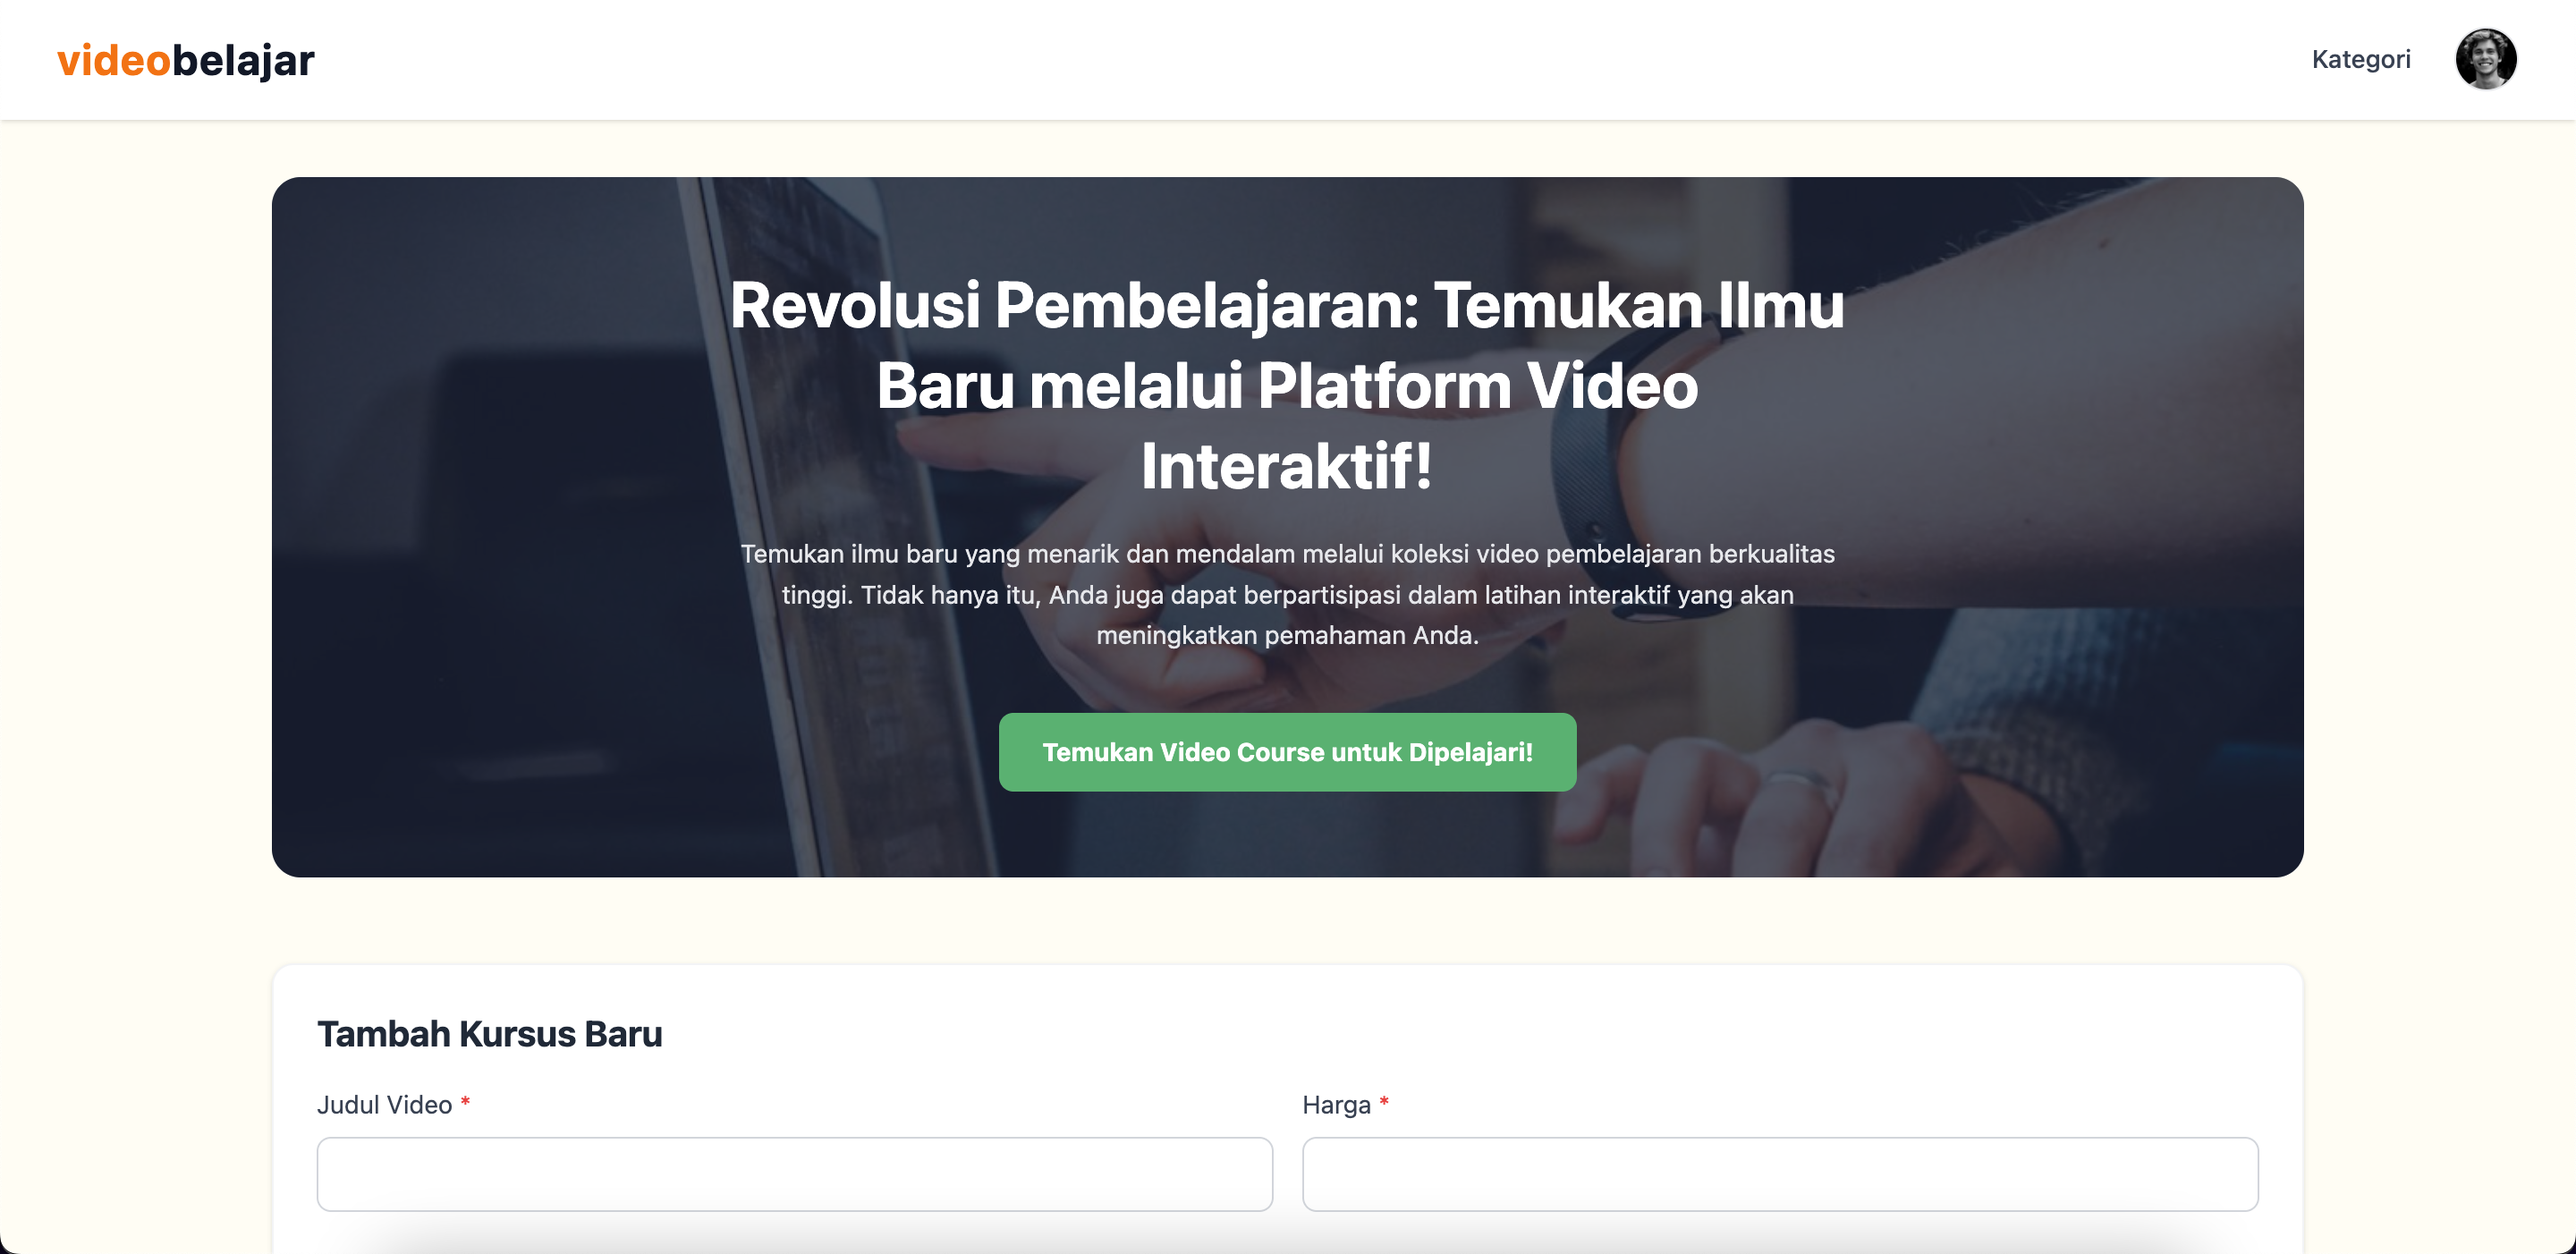
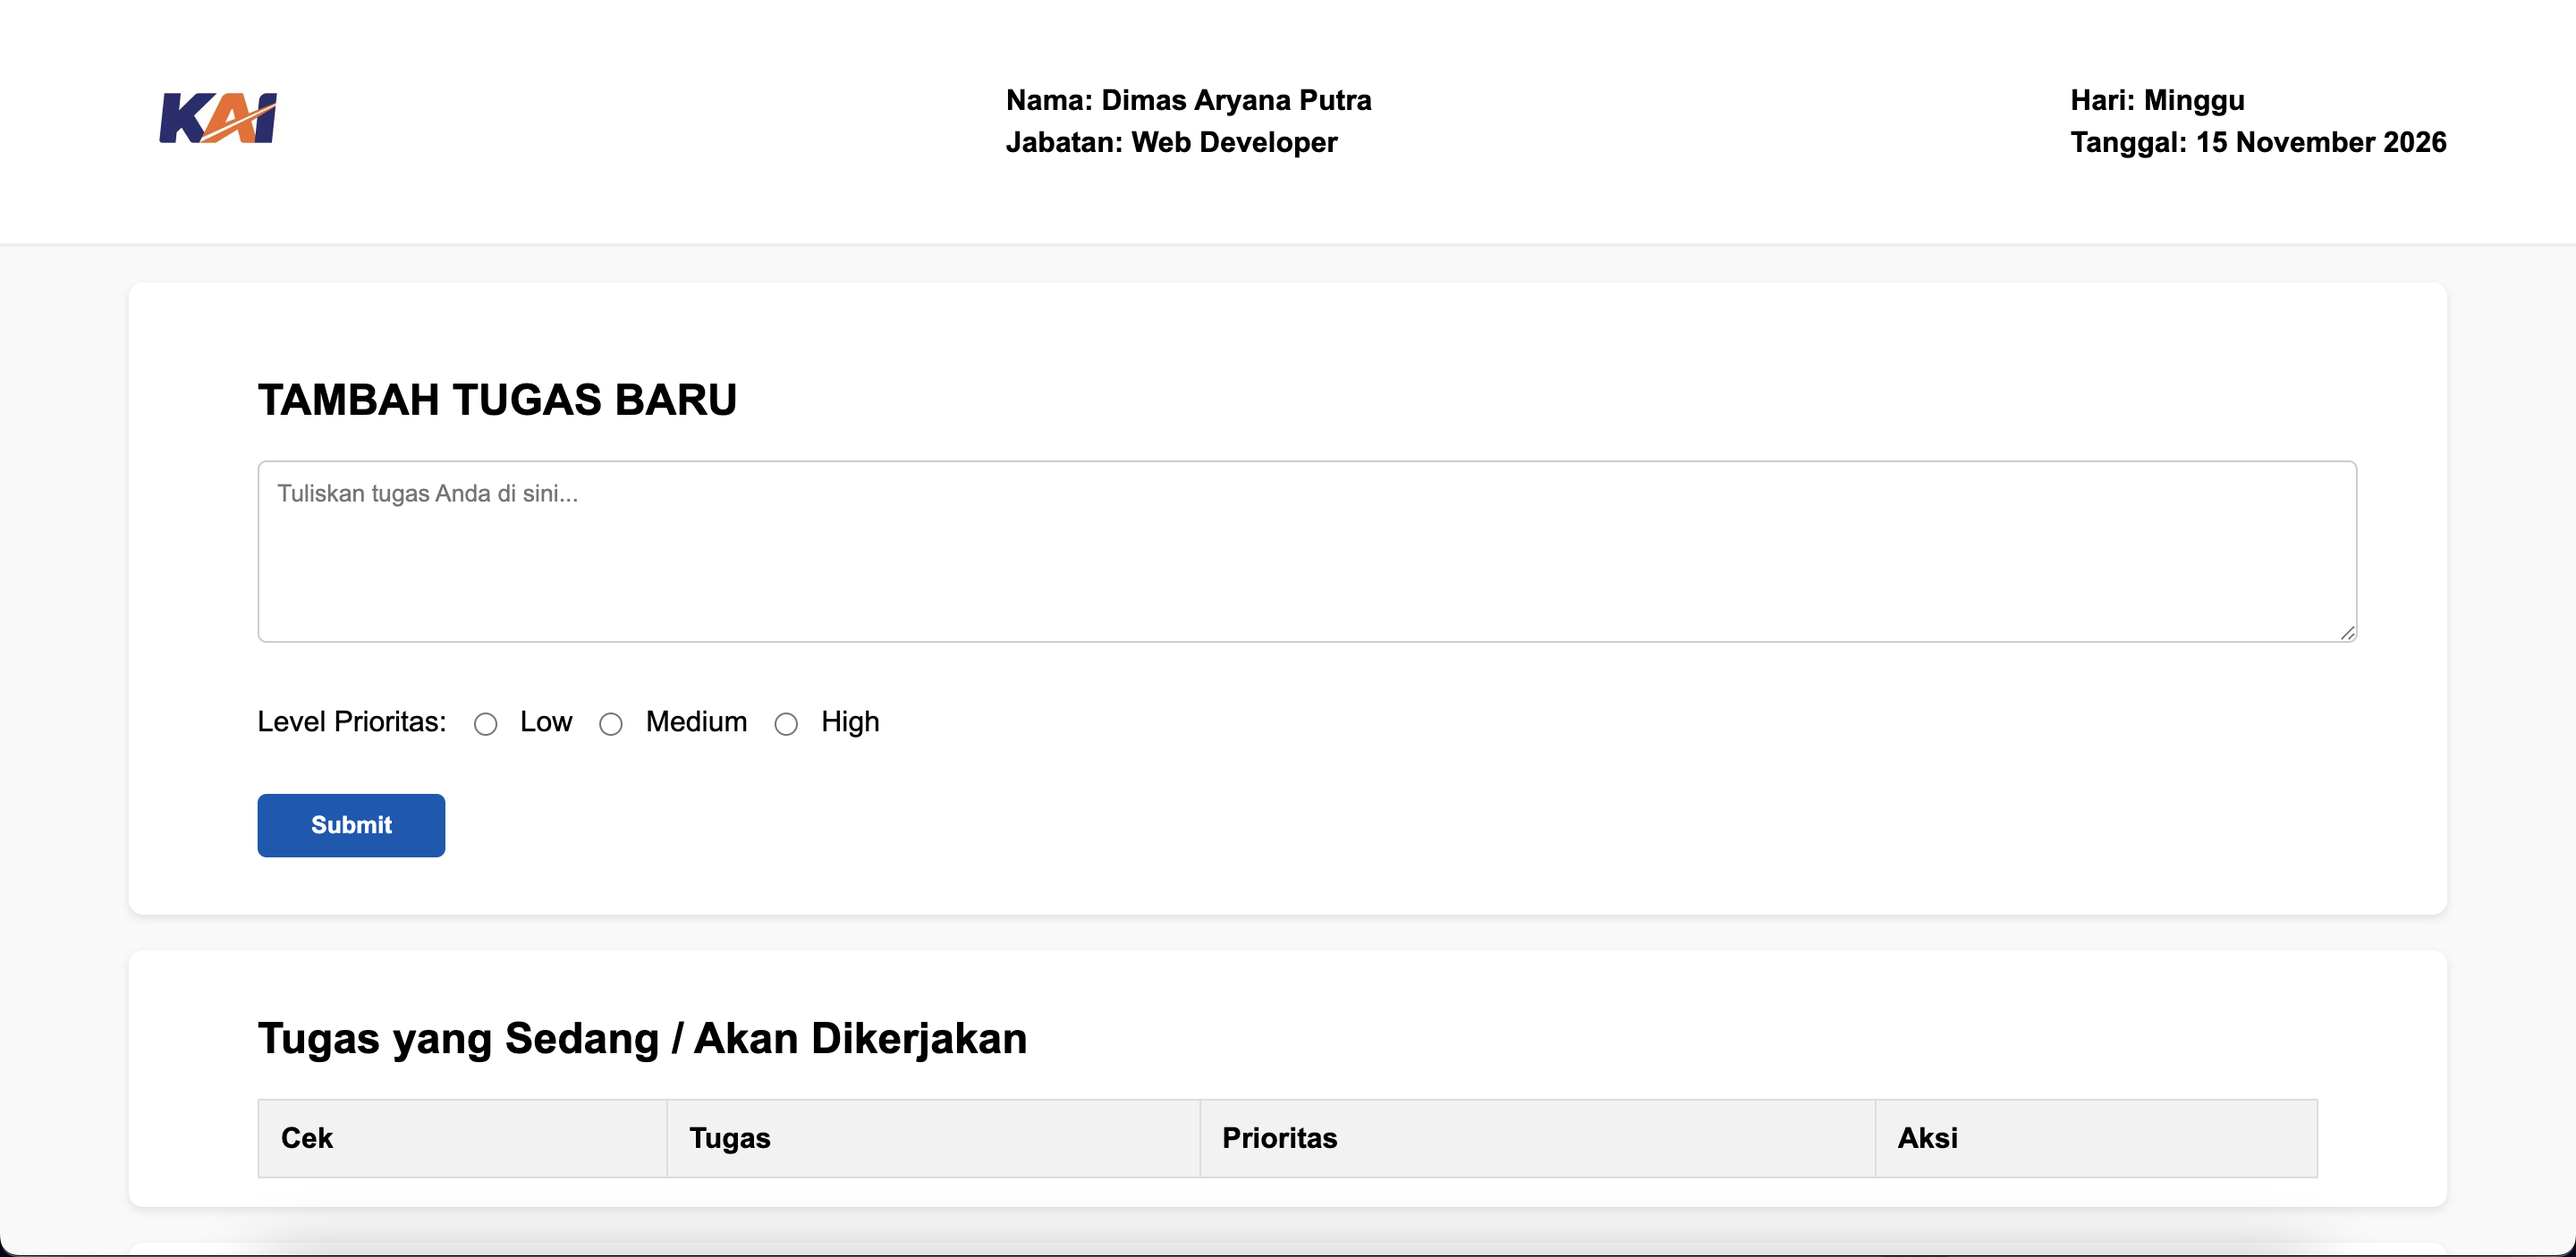
Update second

diff --git a/style.css b/style.css
@@ -23,9 +23,10 @@ body {
   justify-content: space-between;
   align-items: center;
   padding: 1rem 7%;
-  padding-top: 24px;
+  padding-top: 1rem;
   background-color: transparent;
   position: fixed;
+  border-bottom: 0.5px solid #000;
   top: 0;
   left: 0;
   right: 0;
@@ -49,13 +50,13 @@ body {
 }
 
 .navbar .logo span {
-  color: #2e7d32;
+  /* color: #2e7d32; */
   font-style: italic;
 }
 
 .navbar .nav-top a {
   font-size: 1.4rem;
-  color: #2e7d32;
+  color: #2c3e50;
   text-align: center;
   text-decoration: none;
   justify-content: center;
@@ -63,7 +64,7 @@ body {
 }
 
 .navbar .nav-top a:hover {
-  color: #2c3e50;
+  color: #2e7d32;
   transition: 0.3s;
 }
 
@@ -115,7 +116,7 @@ body {
   display: inline-block;
   margin-top: 2.5rem;
   padding: 0.8rem 1.5rem;
-  background-color: #2e7d32;
+  background-color: #6d9773;
   color: white;
   text-decoration: none;
   border-radius: 50px;
@@ -143,13 +144,13 @@ body {
 }
 
 .about-heading span {
-  color: #2e7d32;
+  color: #2c3e50;
   font-weight: 600;
   font-size: 2rem;
 }
 
 .about-heading h2 {
-  color: #2c3e50;
+  color: #6a7178;
   margin-top: 0.8rem;
   font-size: 1.1rem;
 }
@@ -189,19 +190,21 @@ body {
 
 .about-skills h2 {
   width: 100%;
-  color: #2e7d32;
+  color: #2c3e50;
   font-size: 1.5rem;
   margin-bottom: 1rem;
 }
 
 .about-skills span {
   display: flex;
+  align-items: center;
+  justify-content: center;
+  margin-right: 0.5rem;
   padding: 0.8rem 1rem;
-  background-color: #e9f7ec;
-  color: #2e7d32;
+  background-color: #6d9773;
+  color: #fff;
   border-radius: 50px;
   font-size: 1rem;
-  font-weight: 500;
   letter-spacing: 0.8px;
 }
 
@@ -209,4 +212,163 @@ body {
   display: flex;
   flex-wrap: wrap;
   gap: 1.3rem;
+}
+
+/* Project */
+
+.project {
+  padding: 2rem 7%;
+  background-color: #f9f8f6;
+  font-family: "Noto sans";
+}
+
+.project-container {
+  width: 100%;
+}
+
+.project-heading {
+  margin-bottom: 5rem;
+  justify-content: center;
+  text-align: center;
+}
+
+.project-heading span {
+  color: #2c3e50;
+  font-weight: 600;
+  font-size: 2rem;
+}
+
+.project-heading h2 {
+  color: #6a7178;
+  margin-top: 0.8rem;
+  font-size: 1.1rem;
+}
+
+.project-content {
+  display: -webkit-flex;
+  gap: 2rem;
+}
+
+.project-card {
+  flex: 1;
+  padding: 2rem;
+  background-color: #bbd8bf;
+  border-radius: 10px;
+  box-shadow: 0px 0px 10px 10px rgba(0, 0, 0, 0.1);
+}
+
+.project-card img {
+  width: 100%;
+  height: 200px;
+  object-fit: cover;
+  border-radius: 10px;
+}
+
+.project-card h3 {
+  color: #2c3e50;
+  height: 1.5rem;
+  line-height: 1.5rem;
+  font-size: 1.5rem;
+  margin: 0.8rem 0;
+}
+
+.project-card p {
+  color: #6a7178;
+  line-height: 1.4rem;
+  font-size: 1rem;
+  margin-bottom: 1rem;
+}
+
+/* Contact */
+
+.contact {
+  padding: 2rem 7%;
+  background-color: #f9f8f6;
+  font-family: "Noto sans";
+}
+
+.contact-container {
+  width: 100%;
+}
+
+.contact-heading {
+  margin-bottom: 5rem;
+  justify-content: center;
+  text-align: center;
+}
+
+.contact-heading span {
+  color: #2c3e50;
+  font-weight: 600;
+  font-size: 2rem;
+}
+
+.contact-heading h2 {
+  color: #6a7178;
+  margin-top: 0.8rem;
+  font-size: 1.1rem;
+}
+
+.contact-content {
+  display: -webkit-flex;
+  gap: 2rem;
+}
+
+.contact-form {
+  flex: 1;
+  padding: 4rem;
+  background-color: white;
+  border-radius: 10px;
+}
+
+.contact-form h2 {
+  color: #2c3e50;
+  font-size: 1.5rem;
+  margin-bottom: 0.8rem;
+}
+
+.contact-form p {
+  color: #6a7178;
+  line-height: 1.4rem;
+  font-size: 1rem;
+  margin-bottom: 1rem;
+}
+
+.contact-form input,
+.contact-form textarea {
+  width: 100%;
+  padding: 0.8rem 1rem;
+  margin-bottom: 1rem;
+  border: 1px solid #6a7178;
+  border-radius: 5px;
+  font-size: 1rem;
+}
+
+.contact-form input:hover {
+  border: 1px solid #6d9773;
+  transition: 0.3s;
+}
+
+.contact-form button {
+  padding: 0.8rem 1.5rem;
+  background-color: #6d9773;
+  color: white;
+  text-decoration: none;
+  cursor: pointer;
+  border-radius: 50px;
+  font-size: 16px;
+  transition: 0.3s;
+}
+
+.contact-form button:hover {
+  background-color: #255827;
+}
+
+/* Footer */
+.footer {
+  padding: 1rem 7%;
+  background-color: #6d9773;
+  color: white;
+  text-align: center;
+  font-size: 1rem;
 }

diff --git a/index.html b/index.html
@@ -20,7 +20,7 @@
         <a href="#home">Home</a>
         <a href="#about">About Me</a>
         <a href="#project">Projects</a>
-        <a href="#">Contact</a>
+        <a href="#contact">Contact</a>
       </div>
     </nav>
     <!-- navbar End -->
@@ -47,7 +47,7 @@
     <section class="about" id="about">
       <div class="about-container">
         <div class="about-heading">
-          <span>ABOUT ME</span>
+          <span>About Me</span>
           <h2>Get Know Me Better</h2>
         </div>
         <div class="about-content">
@@ -91,27 +91,27 @@
         <div class="project-heading">
           <span>My Project</span>
           <h2>
-            this is are some of the projects I have created and developed it.
+            This is are Some of The Projects I Have Created and Developed it.
           </h2>
         </div>
         <div class="project-content">
           <div class="project-card">
             <img src="assets/project1.png" alt="Project 1" />
-            <h3>Project 1</h3>
+            <h3>To Do List</h3>
             <p>
               This is a project that I created using HTML, CSS, and Javascript.
             </p>
           </div>
           <div class="project-card">
             <img src="assets/project2.png" alt="Project 2" />
-            <h3>Project 2</h3>
+            <h3>Login & Register</h3>
             <p>
               This is a project that I created using React and Tailwind CSS.
             </p>
           </div>
           <div class="project-card">
             <img src="assets/project3.png" alt="Project 3" />
-            <h3>Project 3</h3>
+            <h3>E-Commerce Website</h3>
             <p>
               This is a project that I created using Node.js and Express.js.
             </p>
@@ -120,5 +120,42 @@
       </div>
     </section>
     <!-- Project End -->
+
+    <!-- Contact Start -->
+    <section class="contact" id="contact">
+      <div class="contact-container">
+        <div class="contact-heading">
+          <span>Contact Me</span>
+          <h2>Get in Touch with Me</h2>
+        </div>
+        <div class="contact-content">
+          <form action="#" method="post" class="contact-form">
+            <input type="text" name="name" placeholder="Your Name" required />
+            <input
+              type="email"
+              name="email"
+              placeholder="Your Email"
+              required
+            />
+            <textarea
+              name="message"
+              placeholder="Your Message"
+              required
+            ></textarea>
+            <button type="submit">Send Message</button>
+          </form>
+        </div>
+      </div>
+    <!-- Contact End -->
+     <!-- Footer Start -->
+    <footer class="footer">
+      <div class="footer-container">
+        <p>&copy; 2026 Dimas Aryana Putra. All rights reserved.</p>
+      </div>
+    </footer>
+     <!-- Footer End -->
+      
   </body>
+  <script src="script.js"></script>
+  
 </html>
